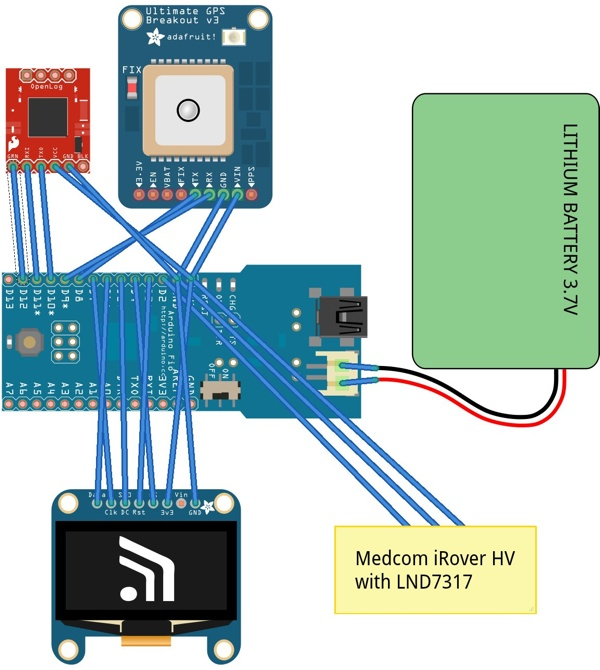
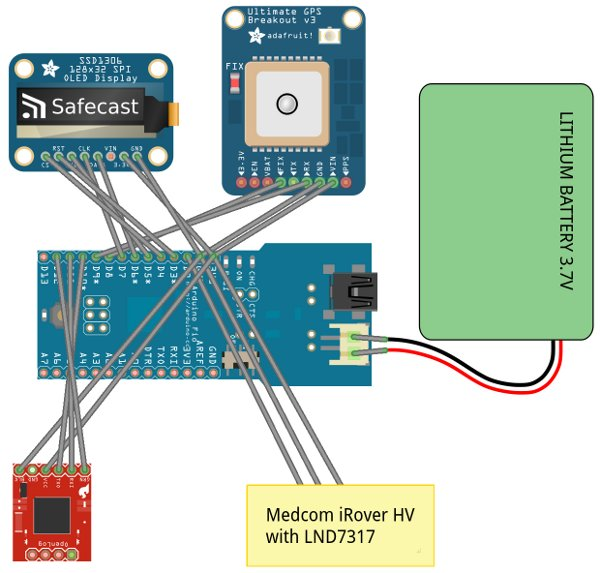
Update OLED screen to Adafruit 128x32 091" SPI

diff --git a/README.md b/README.md
@@ -7,8 +7,8 @@ This is a lighter version of the bGeigie Mini which is meant to fit in a Pelican
 * [OpenLog][1]
 * Adafruit [Ultimate GPS][7]
 * [LND-7317][4] geiger pancake with Medcom iRover HV board
-* [Monochrome 128x64][2] OLED screen
-* 3.7V 1000mAh Lithium battery
+* [Monochrome 128x32][2] OLED screen
+* 3.7V 1300mAh Lithium battery
 * [Pelican 1010][9] micro-case
 
 # Assembly
@@ -38,19 +38,19 @@ This is a lighter version of the bGeigie Mini which is meant to fit in a Pelican
 * **Fio**: 0.045mA sleep, 6mA at run time
 * **OpenLog**: 2mA idle, 6mA at maximum recording rate
 * **Adafruit Ultimate GPS**: 25mA acquisition, 20mA tracking
+* **Monochrome OLED 128x32 0.91"**: 4mA 50% turn-on, 7.8mA 100% turn-on
 
 ## Estimation
-The total current used at run time can be estimated around 32mA (= 6+6+20) per second which will result in a consumption of 0.0088mAh (= 32mA/3600). So
-the total log duration if using a battery of 850mAh will be (850/.0088)/3600 = 26.56 = **26h33m**
+The total current used at run time can be estimated around 36mA (= 6+6+20+4) per second which will result in a consumption of 0.01mAh (= 36mA/3600). So
+the total log duration if using a battery of 1300mAh will be (1300/.01)/3600 = 36.11 = **36h06m**
 
 ## Summary table
 
-| Battery capacity (mAh) | Estimated log duration Ultimate GPS (days hh:mm) |
+| Battery capacity (mAh) | Estimated log duration (days hh:mm) |
 | :-----------: | :-----------: |
-| 850 | 1d 02:33 |
-| 1000 | 1d 07:15 |
-| 2000 |  2d 14:30 |
-| 6000 |  7d 19:30 |
+| 1300 | 1d 12:06 |
+| 2600 |  3d 00:13 |
+| 6600 |  7d 15:19 |
 
 # Build process
 ## Using the Makefile
@@ -118,7 +118,7 @@ To make sure all of the NMEA sentences can be received correctly, we will need t
 
 
   [1]: https://github.com/sparkfun/OpenLog "OpenLog"
-  [2]: http://adafruit.com/products/326 "Monochrome 128x64 OLED"
+  [2]: https://www.adafruit.com/products/661 "Monochrome 128x32 OLED"
   [3]: https://www.sparkfun.com/products/10116 "Arduino Fio"
   [4]: http://www.lndinc.com/products/17/ "LND-7317"
   [5]: https://github.com/fakufaku/SafecastBGeigie-firmware "SafecastBGeigie-firmware"
